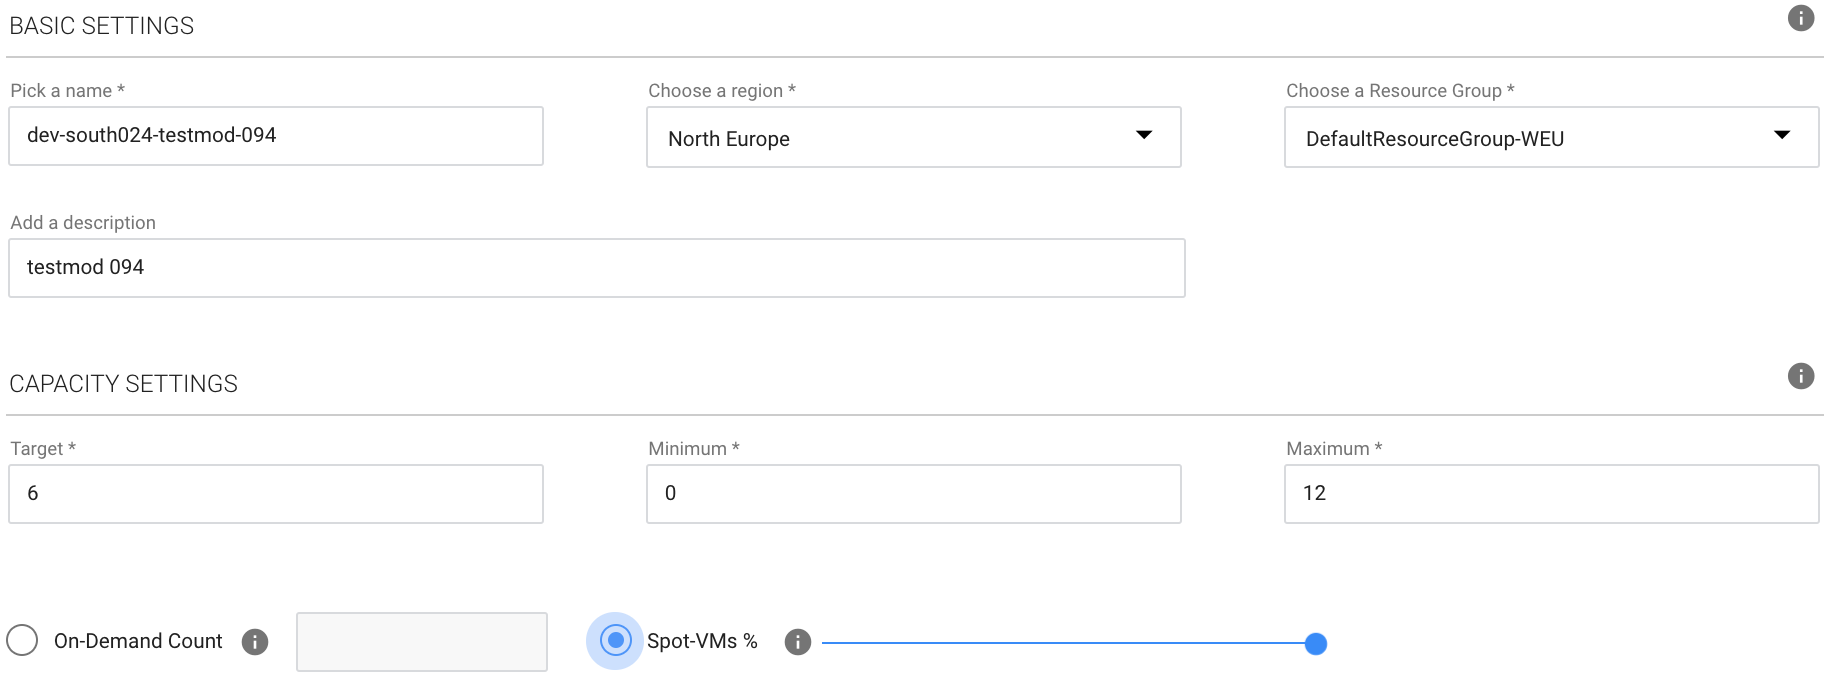
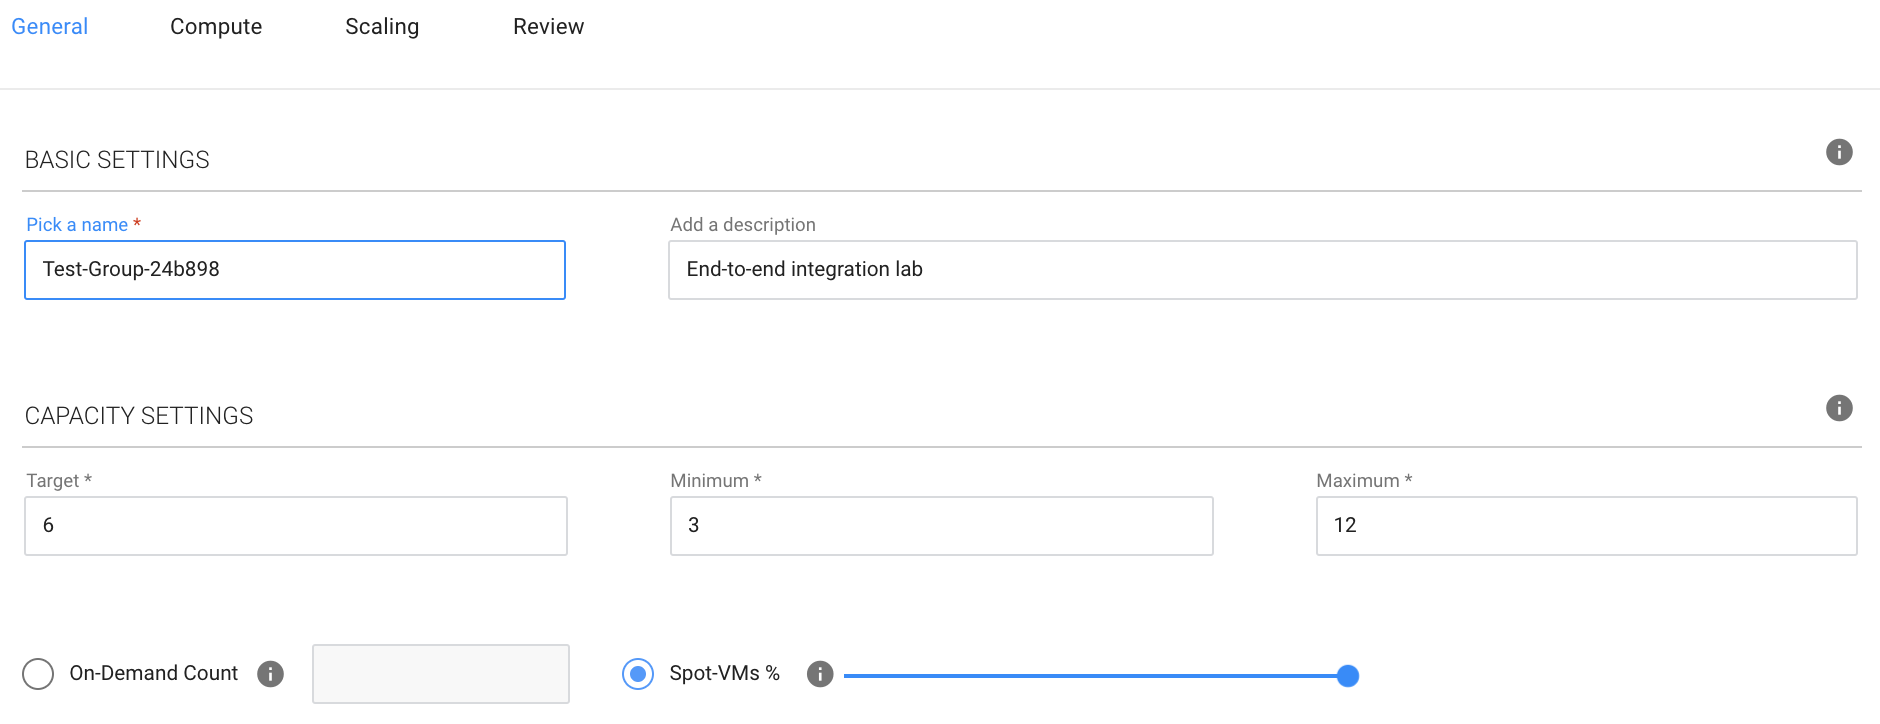
create an elastigroup for azure
availability zone
cluster orientation

diff --git a/src/docs/elastigroup/getting-started/create-an-elastigroup-for-azure.md b/src/docs/elastigroup/getting-started/create-an-elastigroup-for-azure.md
@@ -27,9 +27,7 @@ Enter the information described below. Required fields are indicated with an ast
 ### Basic Settings
 
 - Elastigroup Name. Enter a name for the Elastigroup. We recommend using a naming convention based on the specific workload the Elastigroup will manage, for example dev-eu1-worker.
-- Azure Region. Choose a region the Elastigroup will run in.
-- Resource Group. Choose a resource group.
-- Description. Enter a few words describing the purpose of the Elastigroup.
+- Description: Add a few words indicating the purpose of this Elastigroup.
 
 <img src="/elastigroup/_media/gettingstarted-eg-azure-02.png" />
 
@@ -48,9 +46,9 @@ Choose one of the following:
 
 - Draining Timeout. Set the amount of time (seconds) that Elastigroup will allow to de-register and drain VMs before termination.
 - Cluster Orientation. Specify the prediction algorithm strategy. You can choose for the following:
-  - Availability. Ensures multiple markets for your servers, but may result in lower cost savings.
-  - Cost. Enables best monthly cost savings, but may result in more frequent server replacements.
-  - Cheapest. Ensures the lowest price for the spot VM type defined in the group.
+  - Availability. VM selection will be performed to ensure the best market availability within your Elastigroup.
+  - Cost. VM types will be prioritized by their costs so the selection is based on this list using availability considerations.
+  - Cheapest. VM selection will be performed by launching the cheapest instances at any time.
 - Fallback to On-Demand. Elastigroup provides a fallback mechanism in case no spot VMs are available. Mark this option if you would like the option to automatically fall back to an on-demand VM in such a case.
 - Continuous Optimization. Choose when Elastigroup may move workloads from on-demand to spot VMs. You may choose from:
   - Once Available. Elastigroup moves the workloads when your spot VM types become available.
@@ -64,13 +62,16 @@ When you have completed the information in the General tab, click Next to contin
 
 ### Operating System and VM Sizes
 
+- Resource Group. Choose a resource group.
 - Operating System. Choose the OS that will run on your VMs.
+- Region. Choose the Azure region the VMS will run in.
+- Availability Zones. Choose one or more availability zones where your VMs will be allowed to run. It is highly recommended to choose multiple availability zones to further diversify the spot markets available to the Elastigroup.
 - On-Demand VM-Sizes. Choose the regular priority VMs sizes within the Elastigroup. These are used in the event that no Low-Priority VMs are available in the sizes requested. Ensure the selected VMs are available in the desired region.
 - Spot-VM Sizes. Select the low priority VM sizes to be available for the Elastigroup. Ensure the selected VM size is available in the desired Region.
 
 > **Tip**: To maximize cost savings, provide the Elastigroup with all possible low-priority VM sizes compatible with the expected workload. The more VM sizes, the better the odds Elastigroup will find an available low-priority VM to run on.
 
-<img src="/elastigroup/_media/gettingstarted-eg-azure-03.png" />
+<img src="/elastigroup/_media/gettingstarted-eg-azure-02a.png" />
 
 ### Image
 
